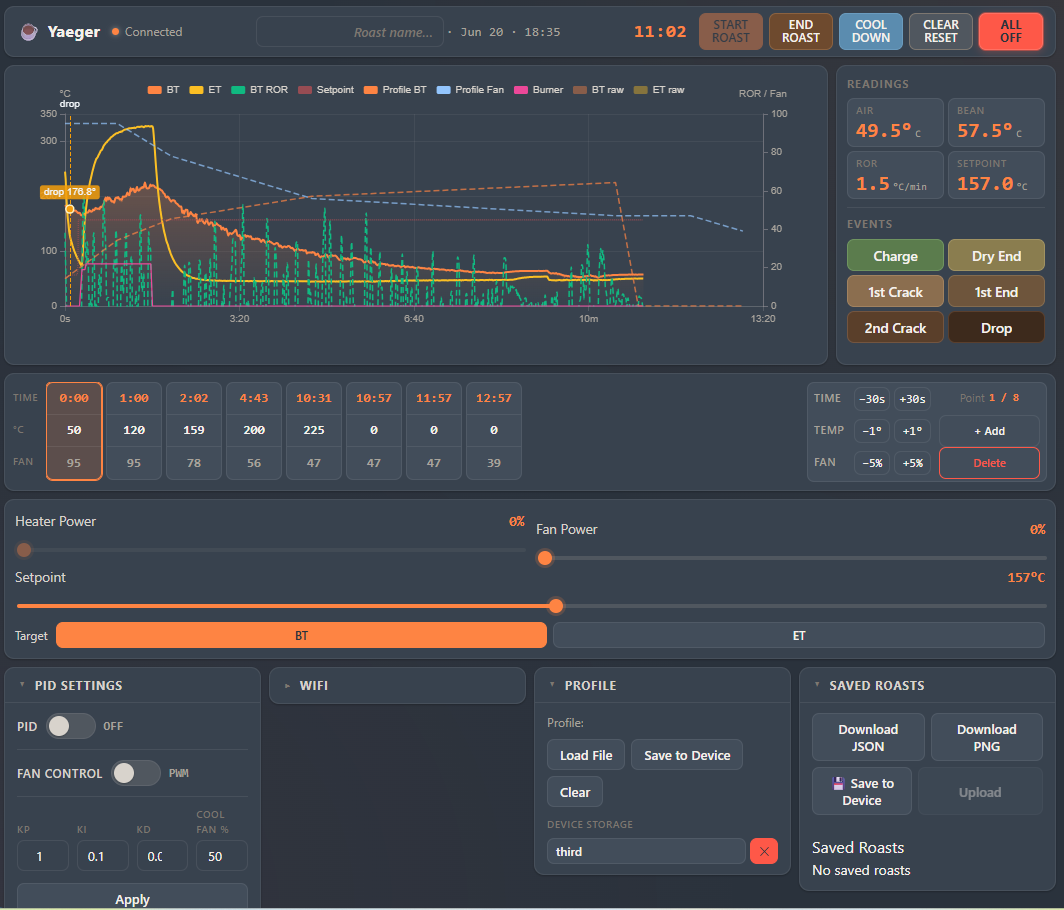
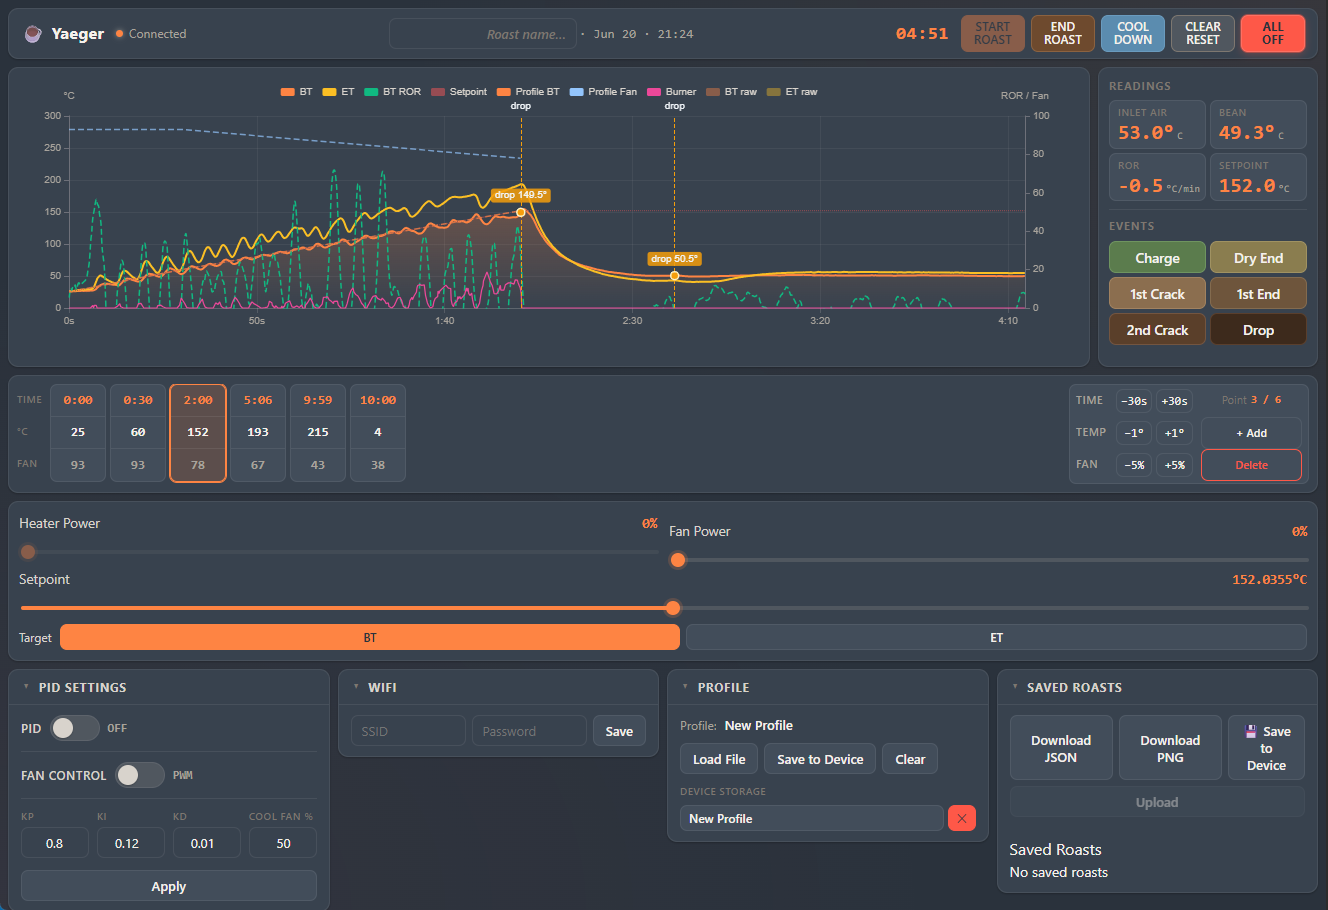
better screenshot. . Unit tests

diff --git a/.claude/todo.md b/.claude/todo.md
@@ -2,8 +2,8 @@
 Smaller screen optimization
 
 11. The slider for Fan and Heater are slightly out of alignment - the fan is slightly lower
-12. The roast failed.. Connected to the local hotspot yaeger.local (flaky for some reason, my computer issues likely) It appears to have frozen and the PID continued for maintain temperature. OLED temperatures worked, possibly also on the web interface but the PID following broke. 
-13. The heater readout gets super weird, bounces around.. Something after I started a roast, stopped it, and cleared all. I don't think it was actually on (the fan was off) but the readout slider was moving around. Scary
+12. After the cooling phase automatically ended at 50 degrees  I pressed "end roast" again and the fan turned back on for a moment and off again. It should automatically trigger "end roast" when the roast is in cooling mode
+13. I added a lot of testing in miniweb/src/__tests__ and ran a number of tests and maybe fixed a number of things. run the tests again and try and see where we are. 
 
 
 